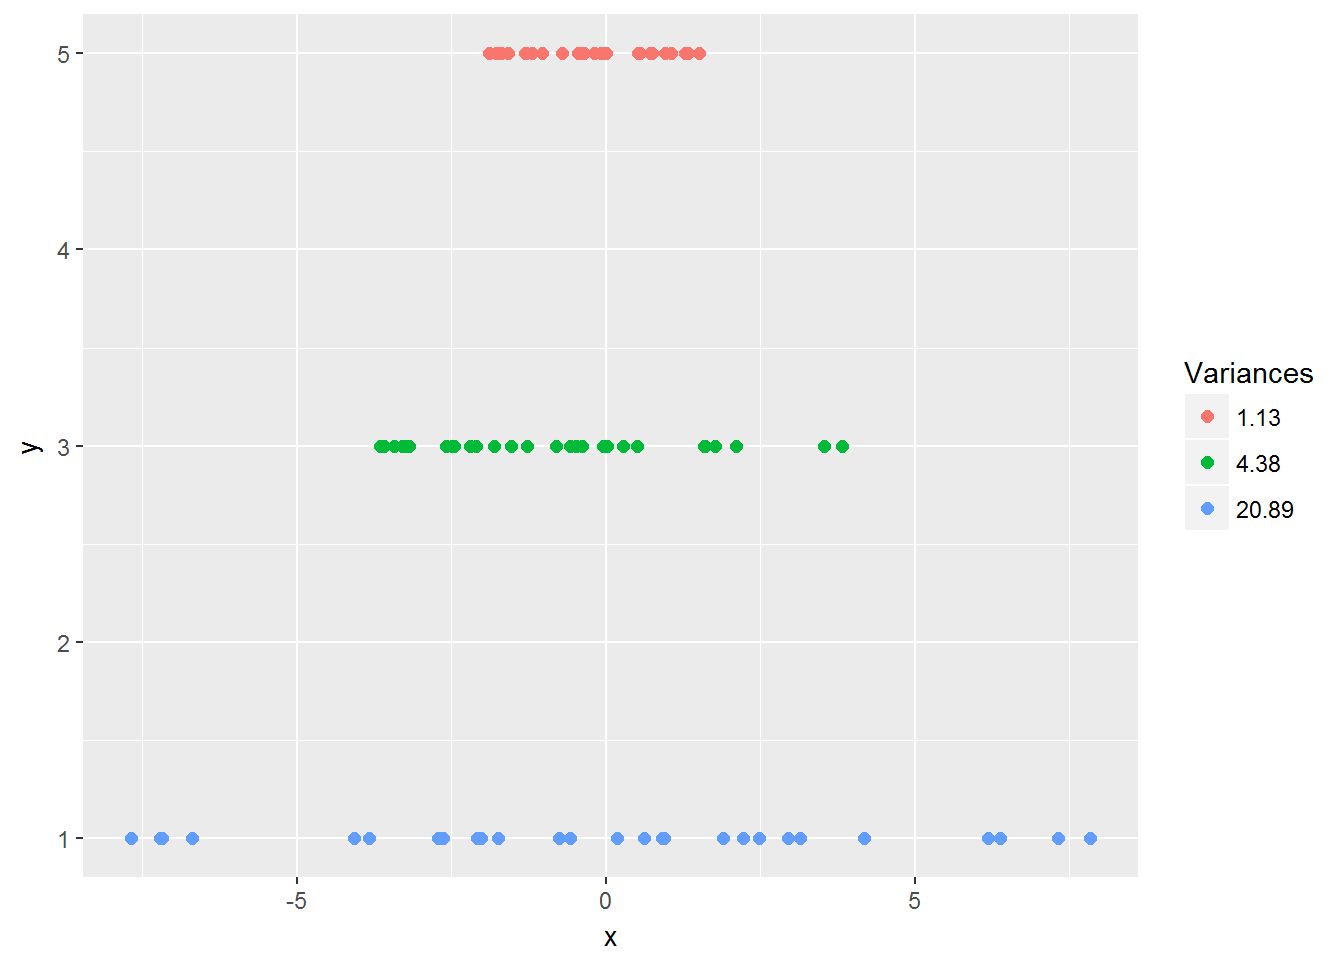
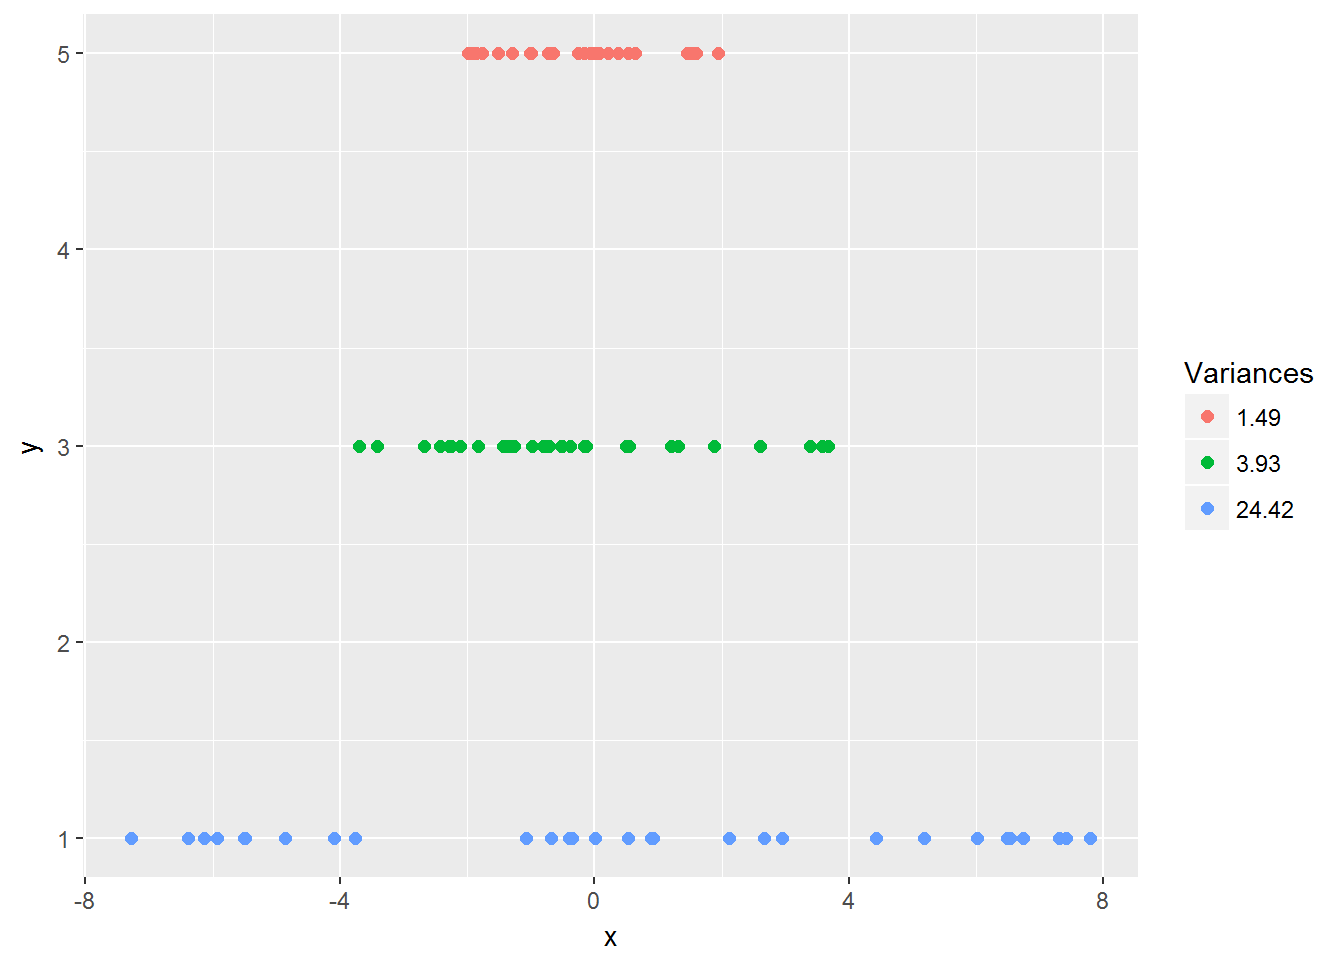
finished simple OLS derivation

diff --git a/smml/_book/sim-lin-reg.html b/smml/_book/sim-lin-reg.html
@@ -61,7 +61,7 @@
       <nav role="navigation">
 
 <ul class="summary">
-<li class="chapter" data-level="1" data-path="index.html"><a href="index.html"><i class="fa fa-check"></i><b>1</b> date: “2017-08-14”</a></li>
+<li class="chapter" data-level="1" data-path="index.html"><a href="index.html"><i class="fa fa-check"></i><b>1</b> date: “2017-08-15”</a></li>
 <li class="chapter" data-level="2" data-path="sim-lin-reg.html"><a href="sim-lin-reg.html"><i class="fa fa-check"></i><b>2</b> Simple Linear Regression</a><ul>
 <li class="chapter" data-level="2.1" data-path="sim-lin-reg.html"><a href="sim-lin-reg.html#overview"><i class="fa fa-check"></i><b>2.1</b> Overview</a></li>
 <li class="chapter" data-level="2.2" data-path="sim-lin-reg.html"><a href="sim-lin-reg.html#estimating-the-coefficients"><i class="fa fa-check"></i><b>2.2</b> Estimating the Coefficients</a><ul>
@@ -194,9 +194,9 @@
 \end{align}\]</span>
 <p>This series of equations is simply going back and forth between equivalent values using the relationships established in equation <a href="sim-lin-reg.html#eq:SumMn">(2.10)</a>. I can split and rejoin summations because the operations are all linear. At the end of the above series I end up with two relationships which will be needed later.</p>
 <p>Now with all these tools, let’s attack this derivation. If you remember back from your high school and college math classes, when we are trying to find the minimum value of a function we take the derivative, set it equal to zero and solve for the parameter(s) of interest. Thankfully, the process hasn’t changed since then. Also, since there are multiple parameters of interest, i.e., <span class="math inline">\(\hat{a_0}\)</span> and <span class="math inline">\(\hat{a_1}\)</span>, I will need to use partial derivatives. First I want to rewrite equation <a href="sim-lin-reg.html#eq:RSS">(2.5)</a> in a slightly more derivative friendly way.</p>
-<span class="math display" id="eq:RSS">\[\begin{equation}
-  S = \sum\limits_{i=1}^N y_i - \left(\hat{a}_0  + \hat{a}_1 x_i \right)^2   
-  \tag{2.5}
+<span class="math display" id="eq:RSSDer">\[\begin{equation}
+  S = \sum\limits_{i=1}^N \left(y_i - \hat{a}_0  + \hat{a}_1 x_i \right)^2   
+  \tag{2.14}
 \end{equation}\]</span>
 <p>Starting with <span class="math inline">\(\hat{a_0}\)</span></p>
 <span class="math display" id="eq:a0Deriv">\[\begin{align}
@@ -205,26 +205,27 @@
   &amp;\sum\limits_{i=1}^N y_i - \hat{a}_0 \sum\limits_{i=1}^N 1 - \hat{a_1} \sum\limits_{i=1}^N x_i = 0 \\
   &amp; N\bar{y} - N\hat{a}_0  - N\hat{a_1}\bar{x}  = 0 \\
   &amp; \bar{y} - \hat{a}_0  - \hat{a_1}\bar{x}  = 0 \\
-  &amp; \hat{a}_0 = \bar{y} - \hat{a_1}\bar{x}  \tag{2.14}
+  &amp; \hat{a}_0 = \bar{y} - \hat{a_1}\bar{x}  \tag{2.15}
 \end{align}\]</span>
-<p>The outcome all these steps is something that seems relatively simple, that the estimate of the intercept is just based on the estimated slope and the average</p>
-<p>Starting with <span class="math inline">\(\hat{a_1}\)</span>.</p>
-<span class="math display" id="eq:OLS1" id="eq:PartDerivA1">\[\begin{align}
-  \frac{\partial S}{\partial \hat{a}_1}  = \frac{\partial}{\partial \hat{a}_1} &amp;\sum\limits_{i=1}^N y_i - \left(\hat{a}_0  + \hat{a}_1 x_i \right)^2   \\
-  = &amp;\sum\limits_{i=1}^N 2x_i\left(\hat{a}_0  + \hat{a}_1 x_i \right)  \tag{2.15} \\
-  &amp;\sum\limits_{i=1}^N x_i\left(\hat{a}_0  + \hat{a}_1 x_i \right) = 0 \tag{2.16} \\ 
+<p>The outcome all these steps is something that seems relatively simple, that the estimate of the intercept is just based on the estimated slope and the average input and output values. That being said it does make sense, as the intercept serves to horizontally shift the line. Once we have estimated the slope we want an intercept which positions the resulting line to go through the center of data as calculated by the average position. Now that I have estimated <span class="math inline">\(\hat{a}_0\)</span>, I can estimate <span class="math inline">\(\hat{a}_1\)</span></p>
+<span class="math display" id="eq:a1Deriv">\[\begin{align}
+  \frac{\partial S}{\partial \hat{a}_1} = -2 &amp;\sum\limits_{i=1}^N x_i \left(y_i - \hat{a}_0 - \hat{a_1}x_i\right)\\
+  &amp;\sum\limits_{i=1}^N x_i \left(y_i - \hat{a}_0 - \hat{a_1}x_i\right) = 0 \\
+  &amp;\sum\limits_{i=1}^N x_iy_i - \hat{a}_0 \sum\limits_{i=1}^N x_i - \hat{a_1} \sum\limits_{i=1}^N x_i^2 = 0 \\
+  &amp;\sum\limits_{i=1}^N x_iy_i = \hat{a}_0 \sum\limits_{i=1}^N x_i + \hat{a_1} \sum\limits_{i=1}^N x_i^2 \\
+  &amp;\sum\limits_{i=1}^N x_iy_i = N\hat{a}_0 \bar{x} + \hat{a_1} \sum\limits_{i=1}^N x_i^2 \\
+  &amp;\sum\limits_{i=1}^N x_iy_i = N\left(\bar{y} - \hat{a_1}\bar{x}\right)\bar{x} + \hat{a_1} \sum\limits_{i=1}^N x_i^2 \\
+  &amp;\sum\limits_{i=1}^N x_iy_i = N\bar{y}\bar{x} - N\hat{a_1}\bar{x}^2 + \hat{a_1} \sum\limits_{i=1}^N x_i^2 \\
+  &amp;\sum\limits_{i=1}^N x_iy_i = \sum\limits_{i=1}^N y_i \bar{x} - \hat{a_1}\sum\limits_{i=1}^N x_i \bar{x} + \hat{a_1} \sum\limits_{i=1}^N x_i^2 \\
+  &amp;\sum\limits_{i=1}^N x_iy_i - \sum\limits_{i=1}^N y_i \bar{x} =  \hat{a_1} \sum\limits_{i=1}^N x_i^2 - \hat{a_1}\sum\limits_{i=1}^N x_i \bar{x} \\
+  &amp;\sum\limits_{i=1}^N y_i\left(x_i - \bar{x}\right) = \hat{a_1}\sum\limits_{i=1}^N x_i \left(x_i - \bar{x}\right) \\
+  &amp;\sum\limits_{i=1}^N \left(x_i-\bar{x}\right)\left(y_i-\bar{y}\right) = \hat{a_1}\sum\limits_{i=1}^N \left(x_i - \bar{x}\right)^2 \\
+  &amp;\hat{a_1} = \frac{\sum\limits_{i=1}^N \left(x_i-\bar{x}\right)\left(y_i-\bar{y}\right)}{\sum\limits_{i=1}^N \left(x_i - \bar{x}\right)^2} \\
+  &amp;\hat{a_1} = \frac{Cov\left(\mathbf{X},\mathbf{Y}\right)}{Var\left(\mathbf{X}\right)} \tag{2.16}
 \end{align}\]</span>
-<p>Because summation is just a linear operation I can take the derivative of what’s inside the summation symbol without a problem. I got equation <a href="sim-lin-reg.html#eq:PartDerivA1">(2.15)</a> through, effectively, the chain rule of derivatives. Now I can set it equal to zero, ignoring any constants on the way, and this gives me equation <a href="sim-lin-reg.html#eq:OLS1">(2.16)</a>, the first of my ordinary least squares equations.</p>
-<p>To acutally estimate the coefficients I can take the partial derivative of the RSS with respect to <span class="math inline">\(\hat{a}_1\)</span>, set it equal to zero and then solve for <span class="math inline">\(\hat{a}_1\)</span>.</p>
-<span class="math display" id="eq:SimpLinRegSlp">\[\begin{equation}
-  \hat{a}_1 = \dfrac{\sum\limits_{i=1}^N\left(x_{1,i}-\bar{X_1}\right)\left(y_{i}-\bar{Y}\right)}{\sum\limits_{i=1}^N\left(x_{1,i}-\bar{X_1}\right)^2} 
-  \tag{2.17}
-\end{equation}\]</span>
-<p><span class="math inline">\(\bar{X_1}\)</span> and <span class="math inline">\(\bar{Y}\)</span> refer to the average input variable and average output variable, respectively. Once I have solved for the coefficient <span class="math inline">\(a_1\)</span>, I can use it to solve for the intercept, <span class="math inline">\(a_0\)</span> as follows</p>
-<span class="math display" id="eq:SimpLinRegInt">\[\begin{equation}
-  \hat{a}_0 = \bar{Y} - \hat{a}_1\bar{X}
-  \tag{2.18}
-\end{equation}\]</span>
+<p>The fact that the estimate of <span class="math inline">\(\hat{a}_1\)</span> is the covariance divided by the variance seems like a very interesting result, but why is that the case? If the covariance is the degree to which two variables vary with each other and the variance is the degree to which a single varialbe varies than the ratio of the covariance to the variance is the degree to which two variables vary reduced by the degree to which the input variable varies within itself. If you think back to our discussion of covariance, as the slop increases the covariance decreases, because there is less variation within the input variable, but if we divide by the variance of the input variable this should correct for that diminishing covariance. The following graph calculates the covariance, variance and their ratio for three sets of data points.</p>
+<p><img src="_main_files/figure-html/unnamed-chunk-8-1.png" width="672" style="display: block; margin: auto;" /></p>
+<p>You can see that as the slop decreases both the covariance and variance increase, but since the covariance is only increasing linearly, while the variance is increasing exponentially, the overall ratio decreases.</p>
 </div>
 </div>
 </div>
@@ -232,7 +233,7 @@
 <h2><span class="header-section-number">2.3</span> Model Accuracy</h2>
 <div id="accuracy-of-the-coefficients" class="section level3">
 <h3><span class="header-section-number">2.3.1</span> Accuracy of the Coefficients</h3>
-<p>While the ability to estimate the coefficients is very powerful, the question is how accurate is the estimation. You can see from equations <a href="sim-lin-reg.html#eq:SimpLinRegSlp">(2.17)</a> and <a href="sim-lin-reg.html#eq:SimpLinRegInt">(2.18)</a> that the least squares method of linear regression will always give an estimate</p>
+<p>While the ability to estimate the coefficients is very powerful, the question is how accurate is the estimation. You can see from equations <a href="#eq:SimpLinRegSlp">(<strong>??</strong>)</a> and <a href="#eq:SimpLinRegInt">(<strong>??</strong>)</a> that the least squares method of linear regression will always give an estimate</p>
 <!-- The red bars from the points to the line represent the distance from the real values to the measured values, also know as the error.  So I can rewrite Equation \@ref(eq:SimpLinReg) in one of two ways to be accurate.  The first is to include an error term, $\epsilon$ by standard notation, whose values are the lengths of the individual red lines.   -->
 <!-- \begin{equation}  -->
 <!--   Y = a_0 + a_1 \cdot X_1 + \epsilon -->
@@ -242,7 +243,7 @@
 <p>When more input variables are added the simple part of the term is dropped and it is referred to as general regression and takes the form</p>
 <span class="math display" id="eq:LinReg">\[\begin{equation} 
   Y = a_0 + a_1\cdot X_1 + a_2\cdot X_2 + \ldots a_p\cdot X_p + \epsilon = a_0 + \sum\limits_{i=1}^p(a_i\cdot X_i) + \epsilon
-  \tag{2.19}
+  \tag{2.17}
 \end{equation}\]</span>
 <p>Just as in simple linear regression, the <span class="math inline">\(a\)</span>’s in front of the input variables control the slope of the line, <span class="math inline">\(a_0\)</span> controls the intercept of the line. Taken together the <span class="math inline">\(a\)</span>’s are referred to as the coefficients. <span class="math inline">\(\epsilon\)</span> is the error as measured by the distance from the points on the right hand side to the true values on the left hand side of the equation.</p>
 <p>Going back to our original simple linear regression problem involving temperature measurments. Since we know that the relationship between the input and output variables is not strictly goverened by the equation <span class="math inline">\(F = \dfrac{9}{5}\cdot C + 32\)</span>, we need a method of determining the coefficients which actually govern the relationship between our given input and outputs.</p>
